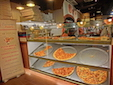
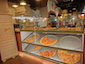
screen.css is now inlined image sizes reduced

diff --git a/index.html b/index.html
@@ -1,1 +1,1 @@
-<!DOCTYPE html><html lang="en"> <head> <meta charset="utf-8"> <meta name="viewport" content="width=device-width, initial-scale=1"> <meta name="description" content=" FILL ME IN "> <meta name="author" content=" FILL ME IN "> <title>Cameron Pittman: Portfolio</title><script type="text/javascript">WebFontConfig={google:{families: ['Open+Sans:400,700:latin']}}; (function(){var wf=document.createElement('script'); wf.src=('https:'==document.location.protocol ? 'https' : 'http') + '://ajax.googleapis.com/ajax/libs/webfont/1/webfont.js'; wf.type='text/javascript'; wf.async='true'; var s=document.getElementsByTagName('script')[0]; s.parentNode.insertBefore(wf, s);}) () </script> <style>.hero, footer{border-top: 1px solid #ccc}footer span, li p{font-style: italic}html{font-size: 100%; overflow-y: scroll; -webkit-tap-highlight-color: transparent; -ms-text-size-adjust: 100%; -webkit-text-size-adjust: none}body{margin: 0; font-size: 14px; line-height: 1.61; font-weight: 400; background: #fff}b, header p, strong{font-weight: 700}body, button, input, select, textarea{font-family: 'Open Sans', sans-serif; color: #333}a{color: #12C}a:visited{color: #61C}a:focus{outline: dotted thin}a:active, a:hover{color: #c00; outline: 0}code, pre{font-family: monospace, monospace; font-size: 1em}ol, ul{margin: 1em 0; padding: 0 0 0 20px}img{border: 0; max-width: 100%}.container, footer, header{max-width: 45em; margin: 0 auto}header{padding: 0 .5em; color: #C90B0B}header img{border-radius: 40px; float: left}header p{font-size: 1.5em; padding-left: 4em}header p span{font-size: .8em; font-weight: 400}.hero{padding: 2em; background-color: #f8f8f8; font-size: 1.2em; border-bottom: 1px solid #ccc}.content{padding: 1em}.content li{list-style-type: none; font-size: 1.1em}li img{float: left; padding-right: 1em}li p{font-size: .9em}footer{padding: 0 .5em}footer span{float: right}@media only screen and (max-width: 480px){body{font-size: 12px}header p{padding-left: 4.5em}}</style> <link href="css/print.css" rel="stylesheet" media="print"> <link href="css/screen.css" rel="stylesheet" media="screen (max-width: 480px)" > <script>(function(w,g){w['GoogleAnalyticsObject']=g; w[g]=w[g]||function(){(w[g].q=w[g].q||[]).push(arguments)};w[g].l=1*new Date();})(window,'ga'); // TODO: replace with your Google Analytics profile ID. ga('create', 'UA-XXXX-Y'); ga('send', 'pageview'); </script> <script async src="http://www.google-analytics.com/analytics.js"></script> <script async src="js/perfmatters.js"></script> </head> <body> <header> <a href="/"><img src="img/profilepic.jpg"></a> <p>Cameron Pittman<br><span>Course Developer</span></p></header> <div class="container"> <div class="hero"> <strong>I love web development!</strong> This is a template for a simple portfolio. I decided to use it to showcase a few Udacity courses I've taken and some teaching work, but you can use it to showcase any kind of project that you want the world to see :) <br>Contact me: me@email.com </div><div class="content"> <ul> <li> <img src="https://lh4.ggpht.com/kJEnfqhPvtm4m3EneSZ4fWYGS8lW4YNhEjk6zPkyrQaBUHc-2Y_ElDic99NHI0h-UBLXVbRCjFybFvrWxdk=s100"> <a href="project-2048.html">Build Your Own 2048!</a> <p>I made my own version of 2048. How cool is that!?</p></li><li> <img src="https://lh6.ggpht.com/f_0W8h__3G99CWTjnMjD8BUKm7yp2-wJyApLtTwFoFtlal2ULf_JgHIsOQq2NiYfKOdMlXlMHDKNo5XVZLs=s100"> <a href="project-webperf.html">Website Performance Optimization</a> <p>Hey... this class looks familiar.</p></li><li> <img src="https://lh5.ggpht.com/IKdCmTWn8a2nMhlwMYzryvzRN5CUZAOBr4tDrEAbszV7TIFe9pRAInA4kkYcgTXwrifJsBEsq1agTueuu-g=s100"> <a href="project-mobile.html">Mobile Web Development</a> <p>Making mobile apps isn't so hard after all.</p></li><li> <img style="width: 100px;" src="views/images/pizzeria.jpg"> <a href="views/pizza.html">Cam's Pizzeria</a> <p>Who wants a performant pizza?</p></li></ul> </div><footer> <p>&copy; Web Performance 2014 <span id="crp-stats"></span></p></footer> </body></html><!--a-->
+<!DOCTYPE html><html lang="en"> <head> <meta charset="utf-8"> <meta name="viewport" content="width=device-width, initial-scale=1"> <meta name="description" content=" FILL ME IN "> <meta name="author" content=" FILL ME IN "> <title>Cameron Pittman: Portfolio</title><script type="text/javascript">WebFontConfig={google:{families: ['Open+Sans:400,700:latin']}}; (function(){var wf=document.createElement('script'); wf.src=('https:'==document.location.protocol ? 'https' : 'http') + '://ajax.googleapis.com/ajax/libs/webfont/1/webfont.js'; wf.type='text/javascript'; wf.async='true'; var s=document.getElementsByTagName('script')[0]; s.parentNode.insertBefore(wf, s);}) () </script> <style>.hero, footer{border-top: 1px solid #ccc}footer span, li p{font-style: italic}html{font-size: 100%; overflow-y: scroll; -webkit-tap-highlight-color: transparent; -ms-text-size-adjust: 100%; -webkit-text-size-adjust: none}body{margin: 0; font-size: 14px; line-height: 1.61; font-weight: 400; background: #fff}b, header p, strong{font-weight: 700}body, button, input, select, textarea{font-family: 'Open Sans', sans-serif; color: #333}a{color: #12C}a:visited{color: #61C}a:focus{outline: dotted thin}a:active, a:hover{color: #c00; outline: 0}code, pre{font-family: monospace, monospace; font-size: 1em}ol, ul{margin: 1em 0; padding: 0 0 0 20px}img{border: 0; max-width: 100%}.container, footer, header{max-width: 45em; margin: 0 auto}header{padding: 0 .5em; color: #C90B0B}header img{border-radius: 40px; float: left}header p{font-size: 1.5em; padding-left: 4em}header p span{font-size: .8em; font-weight: 400}.hero{padding: 2em; background-color: #f8f8f8; font-size: 1.2em; border-bottom: 1px solid #ccc}.content{padding: 1em}.content li{list-style-type: none; font-size: 1.1em}li img{float: left; padding-right: 1em}li p{font-size: .9em}footer{padding: 0 .5em}footer span{float: right}@media only screen and (max-width: 480px){body{font-size: 12px}header p{padding-left: 4.5em}}@media only screen and (max-width:480px){body{font-size:12px}header p{padding-left:4.5em}}</style> <link href="css/print.css" rel="stylesheet" media="print"><script>(function(w,g){w['GoogleAnalyticsObject']=g; w[g]=w[g]||function(){(w[g].q=w[g].q||[]).push(arguments)};w[g].l=1*new Date();})(window,'ga'); // TODO: replace with your Google Analytics profile ID. ga('create', 'UA-XXXX-Y'); ga('send', 'pageview'); </script> <script async src="http://www.google-analytics.com/analytics.js"></script> <script async src="js/perfmatters.js"></script> </head> <body> <header> <a href="/"><img src="img/profilepic.jpg"></a> <p>Cameron Pittman<br><span>Course Developer</span></p></header> <div class="container"> <div class="hero"> <strong>I love web development!</strong> This is a template for a simple portfolio. I decided to use it to showcase a few Udacity courses I've taken and some teaching work, but you can use it to showcase any kind of project that you want the world to see :) <br>Contact me: me@email.com </div><div class="content"> <ul> <li> <img src="https://lh4.ggpht.com/kJEnfqhPvtm4m3EneSZ4fWYGS8lW4YNhEjk6zPkyrQaBUHc-2Y_ElDic99NHI0h-UBLXVbRCjFybFvrWxdk=s100"> <a href="project-2048.html">Build Your Own 2048!</a> <p>I made my own version of 2048. How cool is that!?</p></li><li> <img src="https://lh6.ggpht.com/f_0W8h__3G99CWTjnMjD8BUKm7yp2-wJyApLtTwFoFtlal2ULf_JgHIsOQq2NiYfKOdMlXlMHDKNo5XVZLs=s100"> <a href="project-webperf.html">Website Performance Optimization</a> <p>Hey... this class looks familiar.</p></li><li> <img src="https://lh5.ggpht.com/IKdCmTWn8a2nMhlwMYzryvzRN5CUZAOBr4tDrEAbszV7TIFe9pRAInA4kkYcgTXwrifJsBEsq1agTueuu-g=s100"> <a href="project-mobile.html">Mobile Web Development</a> <p>Making mobile apps isn't so hard after all.</p></li><li> <img style="width: 100px;" src="views/images/pizzeria.jpg"> <a href="views/pizza.html">Cam's Pizzeria</a> <p>Who wants a performant pizza?</p></li></ul> </div><footer> <p>&copy; Web Performance 2014 <span id="crp-stats"></span></p></footer> </body></html><!--a-->
